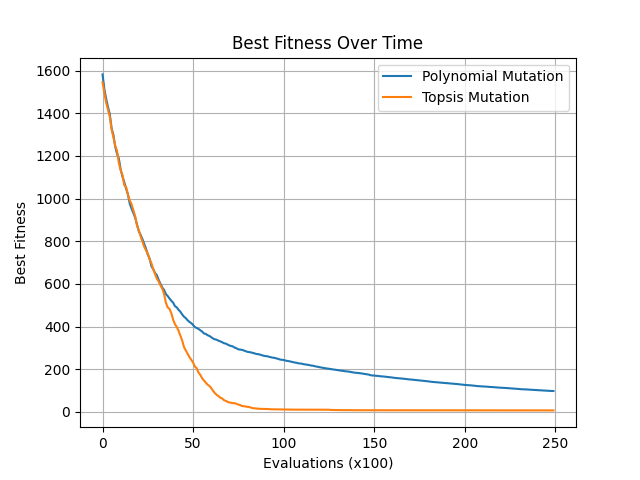
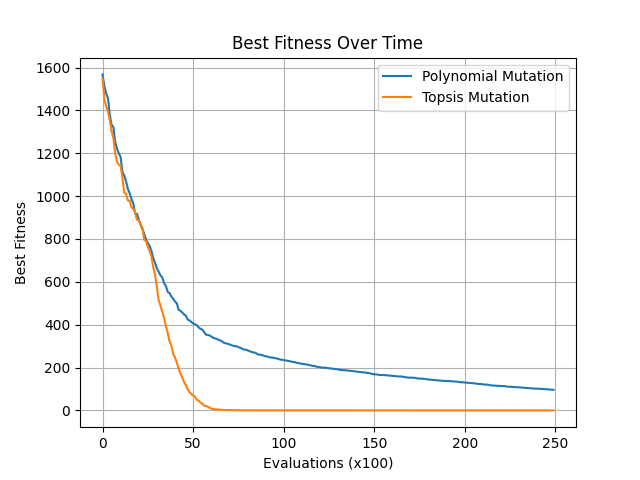
Random angles and random point modes

Changed region(s): [[0.0625, 0.125, 0.9062, 0.875], [0.0625, 0.4688, 0.125, 0.5312], [0.875, 0.8438, 0.9062, 0.875]]

diff --git a/topsis_mutation/topsis_mutation.py b/topsis_mutation/topsis_mutation.py
@@ -1,12 +1,22 @@
+import math
+import random
 from jmetal.operator import PolynomialMutation
 from jmetal.core.solution import FloatSolution
+
+def scaled_random_vector_in_angle_range(angle_range_degrees: float, dimensions: int, scale_factor: float) -> list:
+    random_angles = [random.uniform(-angle_range_degrees / 2, angle_range_degrees / 2) for _ in range(dimensions)]
+    random_vectors = [scale_factor * math.cos(math.radians(angle)) for angle in random_angles]
+    return random_vectors
+
+def random_point_in_bounding_box(lower_bound, upper_bound, dimensions):
+    return [random.uniform(lower_bound[i], upper_bound[i]) for i in range(dimensions)]
 
 class TopsisMutation(PolynomialMutation):
     """
     TopsisMutation to klasa mutacji, która dziedziczy po PolynomialMutation.
     Implementuje mutację opartą na średniej wartości topowych osobników populacji.
     """
-    def __init__(self, probability: float, selected_percentage: float, push_strength: float, best=True, worst=False, population=None):
+    def __init__(self, probability: float, selected_percentage: float, push_strength: float, best=True, worst=False, randomized_angle=False, randomized_point=False, population=None):
         # Wywołanie konstruktora klasy bazowej
         super(TopsisMutation, self).__init__(probability=probability)
         self.selected_percentage = selected_percentage  # Procent najlepszych/najgorszych osobników do uśrednienia
@@ -14,6 +24,8 @@ class TopsisMutation(PolynomialMutation):
         self.population = population or []    # Populacja osobników
         self.best = best
         self.worst = worst
+        self.randomized_angle = randomized_angle
+        self.randomized_point = randomized_point
 
 
     def execute(self, solution: FloatSolution) -> FloatSolution:
@@ -38,6 +50,10 @@ class TopsisMutation(PolynomialMutation):
             # Inicjalizacja listy przechowującej uśrednionego najlepszego osobnika
             average_best_individual = [0.0] * solution.number_of_variables
 
+            # # Losowe wektory do modyfikacji kąta, jeśli flaga jest aktywna
+            # if self.randomized_angle:
+            #     random_vectors = random_vector_in_angle_range(90, solution.number_of_variables)
+
             # Sumowanie wartości zmiennych topowych osobników
             for individual in top_individuals:
                 for i in range(solution.number_of_variables):
@@ -45,10 +61,24 @@ class TopsisMutation(PolynomialMutation):
             # Obliczenie wartości uśrednionego topowego osobnika
             for i in range(solution.number_of_variables):
                 average_best_individual[i] /= num_individuals
+            
+            if self.randomized_point:
+                random_point = random_point_in_bounding_box(solution.variables, average_best_individual, solution.number_of_variables)
 
             # Przesunięcie wartości zmiennych mutowanego osobnika w kierunku uśrednionego osobnika
             for i in range(solution.number_of_variables):
                 difference = average_best_individual[i] - solution.variables[i]
+
+                # # Dodanie losowości dla kierunku wektora, jeśli flaga jest aktywna
+                # if self.randomized_angle:
+                #     difference += random_vectors[i]
+                if self.randomized_point:
+                    difference = random_point[i] - solution.variables[i]
+                if self.randomized_angle:
+                    scale_factor = abs(difference) / 2
+                    random_vectors = scaled_random_vector_in_angle_range(90, 1, scale_factor)
+                    difference += random_vectors[0]
+
                 solution.variables[i] += self.push_strength * difference
 
                 # Sprawdzenie, czy nowa wartość zmiennej nie przekracza granic
@@ -61,6 +91,10 @@ class TopsisMutation(PolynomialMutation):
             # Inicjalizacja listy przechowującej uśrednionego najgorszego osobnika
             average_worst_individual = [0.0] * solution.number_of_variables
 
+            # # Losowe wektory do modyfikacji kąta, jeśli flaga jest aktywna
+            # if self.randomized_angle:
+            #     random_vectors = random_vector_in_angle_range(90, solution.number_of_variables)
+
             # Sumowanie wartości zmiennych najgorszych osobników
             for individual in bottom_individuals:
                 for i in range(solution.number_of_variables):
@@ -69,10 +103,24 @@ class TopsisMutation(PolynomialMutation):
             for i in range(solution.number_of_variables):
                 average_worst_individual[i] /= num_individuals
 
+            if self.randomized_point:
+                random_point = random_point_in_bounding_box(solution.variables, average_worst_individual, solution.number_of_variables)
+
             # Przesunięcie wartości zmiennych mutowanego osobnika
             # w kierunku przeciwnym do uśrednionego osobnika
             for i in range(solution.number_of_variables):
                 difference = solution.variables[i] - average_worst_individual[i]
+
+                # # Dodanie losowości dla kierunku wektora, jeśli flaga jest aktywna
+                # if self.randomized_angle:
+                #     difference += random_vectors[i]
+                if self.randomized_point:
+                    difference = random_point[i] - solution.variables[i]
+                if self.randomized_angle:
+                    scale_factor = abs(difference) / 2
+                    random_vectors = scaled_random_vector_in_angle_range(90, 1, scale_factor)
+                    difference += random_vectors[0]
+
                 solution.variables[i] += self.push_strength * difference
 
                 # Sprawdzenie, czy nowa wartość zmiennej nie przekracza granic

diff --git a/topsis_mutation/main.py b/topsis_mutation/main.py
@@ -107,6 +107,8 @@ if __name__ == "__main__":
                 push_strength=topsis_mutation_params["push_strength"],
                 best=topsis_mutation_params["toBest"],
                 worst=topsis_mutation_params["fromWorst"],
+                randomized_angle=topsis_mutation_params["randomizedAngle"],
+                randomized_point=topsis_mutation_params["randomizedPoint"],
                 population=[]
             ),
             crossover=SBXCrossover(probability=0.9, distribution_index=20),
